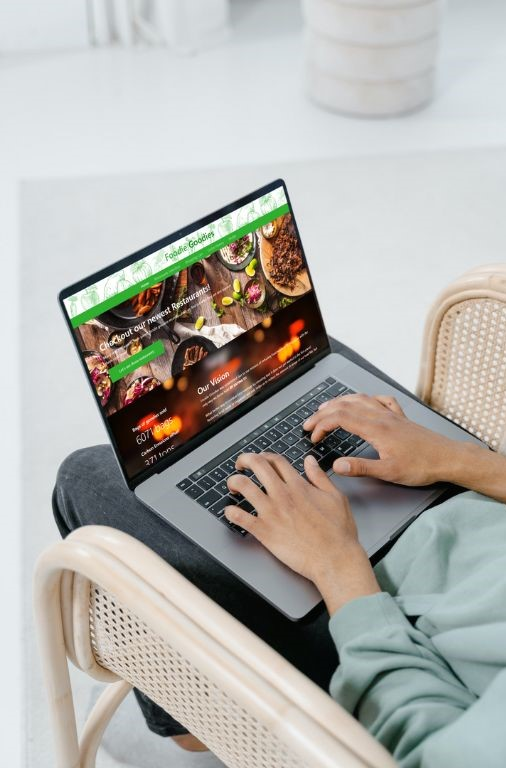
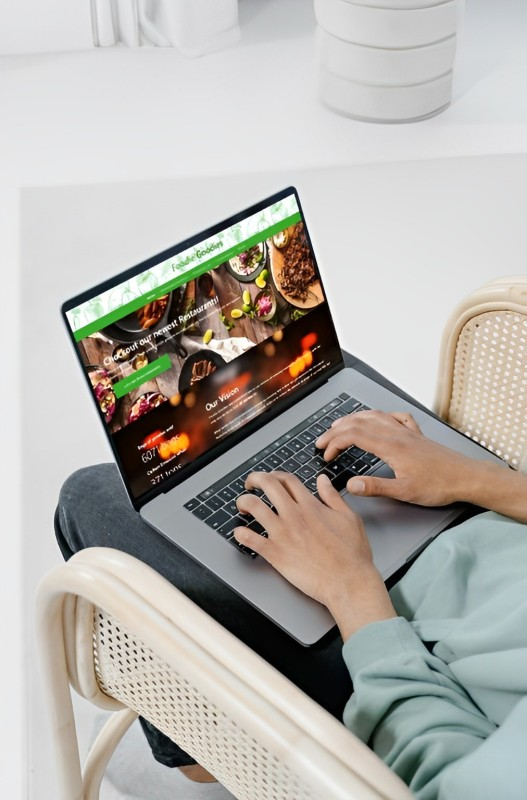
Sharpened Computer style image and changed margin for video

diff --git a/public/index2.html b/public/index2.html
@@ -266,7 +266,7 @@
     <!-- [Section 1] Statistics Start -->
     <div class="container-fluid">
       <div class="row my-2">
-        <div class="col-lg-6 order-1 order-lg-2">
+        <div class="col-lg-6 order-1 order-lg-2 mt-5">
           <video autoplay muted loop id="myVideo" class="w-100">
             <source src="videos/FoodieGoodiesCanvaVid.mp4" type="video/mp4" />
           </video>
@@ -362,7 +362,7 @@
         <div class="col-lg-6 section3Img"></div>
 
         <div class="col-lg-6 basic2 p-3" style="background-color: whitesmoke">
-          <h3 style="text-align: center">How FoodieGoodies Works?</h3>
+          <h3 style="text-align: center">But how does it <i>ACTUALLY</i> work?</h3>
 
           <ol class="m-5" style="text-align: justify">
             <li>
@@ -371,7 +371,7 @@
             </li>
             <li>
               Confirm your order and reserve your mystery box. To collect, go to
-              the restaurant at the designated pick-up time.
+              the restaurant.
             </li>
             <li>
               Go home, explore your mystery box and enjoy your meal. You have
